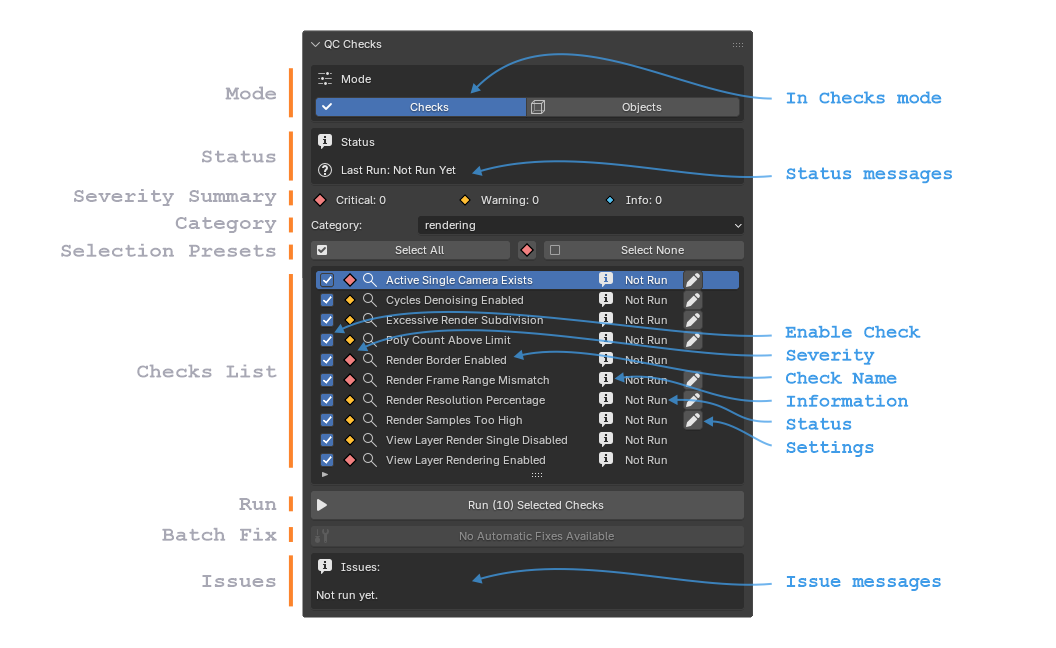
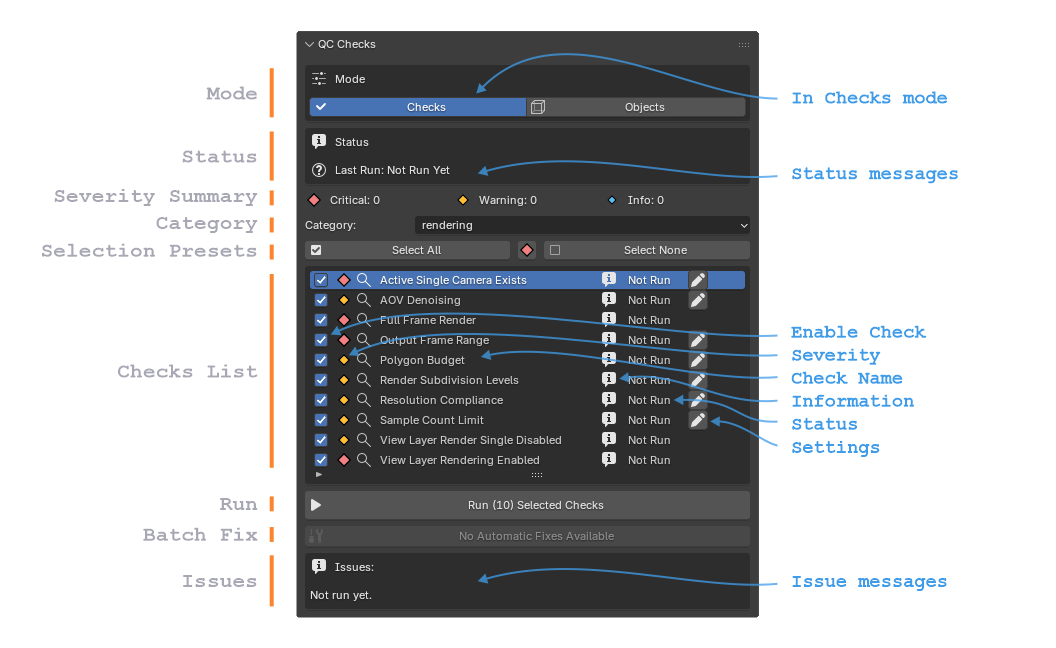
updating documentation with failure and details of it

diff --git a/documentation/template/panel.html b/documentation/template/panel.html
@@ -191,11 +191,15 @@
                     <!-- After Run -->
                     <section class="card">
                         <h3>After a Run</h3>
+                        <h3>Failed Objects</h3>
+                        <img src="assets/images/qc_checks_panel_failed_objects.png" alt="Scriptronaut">
+                        <h3>Failure Details</h3>
                         <p>
-                            If any checks fail the failures will be flagged.<br>
-                            <h3>Failure Details</h3>
-                            <img src="assets/images/qc_checks_panel_failure_details.png" alt="Scriptronaut">
+                            If any checks fail the objects that failed will be flagged. You can click on the 
+                            <img src="assets/images/qc_checks_failure_details.png" alt="Scriptronaut">
+                            icon to see the Failure Details.<br>
                         </p>
+                        <img src="assets/images/qc_checks_panel_failure_details.png" alt="Scriptronaut">
                     </section>
 
                 </div>
